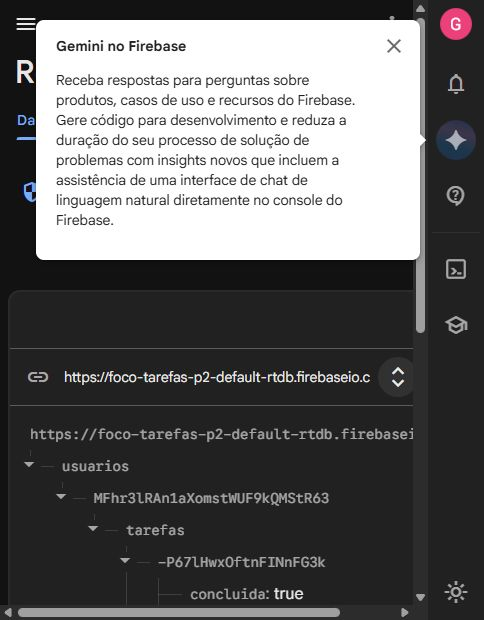
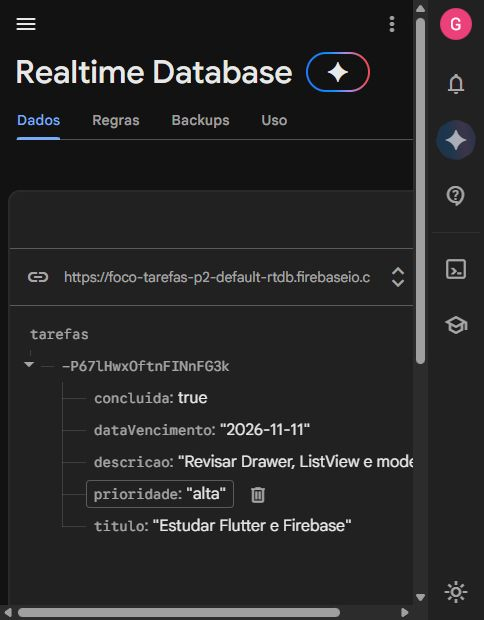
Documenta validacao na nuvem e entrega roteiro e capturas

diff --git a/docs/VALIDACAO.md b/docs/VALIDACAO.md
@@ -1,6 +1,6 @@
 # Validação da entrega
 
-Registro das verificações efetuadas em 11/11/2026. Este arquivo será atualizado ao concluir a configuração da nuvem.
+Registro das verificações efetuadas em 11/11/2026. Projeto Firebase pessoal: **foco-tarefas-p2**, plano Spark. Aplicativos web e Android registrados; provedor e-mail/senha ativado; regras do Realtime Database publicadas.
 
 | Verificação | Resultado |
 |---|---|
@@ -9,11 +9,20 @@ Registro das verificações efetuadas em 11/11/2026. Este arquivo será atualiza
 | Regras Firebase no emulador oficial | 4 testes passaram: CRUD, isolamento, acesso anônimo, payload inválido |
 | Build web release | Gerado com sucesso, incluindo recursos locais |
 | Build Android debug | APK gerado com sucesso |
+| Build Android release | APK conectado ao Firebase real gerado com sucesso (53,2 MB) |
 | Cadastro real na interface Flutter web | Executado contra Firebase Emulator Suite |
 | Cadastro de tarefa, prioridade e vencimento | Executado contra Firebase Emulator Suite |
 | Capturas reais | Login, cadastro de usuário e cadastro de tarefa incluídos |
+| Execução no VS Code | Sessão de depuração Foco - Firebase nuvem (web), usando Edge |
+| Cadastro de usuário na nuvem | Conta fictícia de demonstração criada pela interface |
+| Duas tarefas na nuvem | Criadas pela interface e conferidas no console Firebase |
+| Edição e conclusão na nuvem | Título alterado e concluida=true conferidos no banco |
+| Exclusão na nuvem | Somente a tarefa fictícia autorizada foi excluída; outra sessão refletiu a remoção |
+| Sessão ao reabrir | Nova aba recuperou a conta autenticada e suas tarefas |
+| Tema após reabrir | Tema escuro permaneceu após recarregar o app |
+| Logout e novo login na nuvem | Login por e-mail/senha recuperou a tarefa editada; tema escuro preservado |
 
-Os testes de interface automatizados usam um serviço de teste para verificar formulários e filtros. Os testes das regras usam Realtime Database real emulado. Eles não substituem um teste manual em dispositivo Android nem comprovam sozinhos a configuração da nuvem.
+Os testes de interface automatizados usam um serviço de teste para verificar formulários e filtros. Os testes das regras usam Realtime Database real emulado. A integração com a nuvem também foi verificada pela interface web e pelo console Firebase. O Android foi compilado; **não foi executado em um celular ou Android Emulator**, pois nenhum dispositivo Android estava disponível nesta sessão. Antes de gravar no celular, instale o APK, cadastre sua conta e faça um ensaio.
 
 ## Critérios e implementação
 
@@ -32,8 +41,22 @@ Os testes de interface automatizados usam um serviço de teste para verificar fo
 
 As imagens foram capturadas da aplicação Flutter em execução. As capturas 01 a 03 correspondem ao ambiente dos emuladores e são identificadas como tal na interface.
 
+As capturas 04 em diante mostram a configuração e a execução com Firebase na nuvem. A conta utilizada é fictícia e seus dados servem apenas para validação; para gravar, cadastre sua própria conta de demonstração.
+
 ![Login](capturas/01-login.jpg)
 
 ![Cadastro](capturas/02-cadastro-usuario.jpg)
 
 ![Tarefa](capturas/03-cadastro-tarefa.jpg)
+
+![Início com duas tarefas na nuvem](capturas/06-inicio-duas-tarefas.jpg)
+
+![ListView](capturas/07-listview.jpg)
+
+![Realtime Database](capturas/08-realtime-database-nuvem.jpg)
+
+![Tema escuro](capturas/12-tema-escuro.jpg)
+
+![Reabertura com tema e sessão](capturas/13-reabertura-tema-sessao.jpg)
+
+![Novo login e recuperação dos dados](capturas/15-novo-login.jpg)

diff --git a/README.md b/README.md
@@ -8,6 +8,8 @@ O Firebase **foco-tarefas-p2** está configurado na conta pessoal, no plano Spar
 
 No VS Code, selecione **Foco - Firebase nuvem (web)** e pressione F5. A execução usa Microsoft Edge em <http://127.0.0.1:7358>. O APK de entrega está disponível junto da pasta do projeto como `Foco-Android.apk`. Ele usa o mesmo Firebase real. Para gravar no celular, instale o APK e mantenha conexão com a internet.
 
+O APK entregue é um build **release** otimizado (53,2 MB), assinado com a chave de desenvolvimento para apresentação acadêmica. O Android foi compilado, mas não executado em dispositivo nesta sessão. Os fluxos foram exercitados na versão web conectada ao mesmo Firebase. Faça um ensaio no seu celular antes de gravar.
+
 ## Funcionalidades
 
 - Cadastro com nome, e-mail, senha e confirmação; login/logout, validação, mensagens em português e sessão persistida pelo Firebase.
@@ -80,6 +82,8 @@ Com dispositivo USB ou Android Emulator configurado:
 ./scripts/flutter.ps1 run -d ID_DO_ANDROID --dart-define-from-file=config/firebase.android.json
 ./scripts/flutter.ps1 build apk --debug --dart-define-from-file=config/firebase.android.json
 ```
+
+Para reproduzir o APK otimizado entregue, use `./scripts/flutter.ps1 build apk --release --dart-define-from-file=config/firebase.android.json`. O arquivo gerado será `build/app/outputs/flutter-apk/app-release.apk`.
 
 O APK sai em `build/app/outputs/flutter-apk/app-debug.apk`. A assinatura de debug é de desenvolvimento; publicação em loja exige assinatura própria.
 

diff --git a/docs/ROTEIRO_VIDEO.md b/docs/ROTEIRO_VIDEO.md
@@ -5,6 +5,7 @@ Este roteiro cobre os oito itens obrigatórios do item 7 do PDF. Nenhum vídeo f
 ## Preparação
 
 - Use a configuração **Firebase na nuvem**, conforme README. Os emuladores servem para ensaiar, mas não demonstram armazenamento na nuvem.
+- O projeto entregue já está conectado ao Firebase **foco-tarefas-p2**. No computador, escolha **Foco - Firebase nuvem (web)** no VS Code e use F5; para gravar no Android, instale o arquivo **Foco-Android.apk** entregue junto ao projeto.
 - Deixe o projeto aberto no VS Code e o aplicativo em um Android conectado ou Android Emulator. A versão web serve para ensaio; confirme com o professor se ele aceita demonstração no navegador.
 - Abra o console Firebase em Authentication e Realtime Database > Dados. Use um novo e-mail de demonstração e anote a senha sem mostrá-la no vídeo.
 - Escolha vencimentos futuros em relação ao dia da gravação. Prepare duas tarefas: **Estudar Flutter**, descrição “Revisar Drawer, ListView e models”, prioridade Alta; e **Preparar entrega da P2**, descrição “Conferir README e demonstrar Firebase”, prioridade Média.
